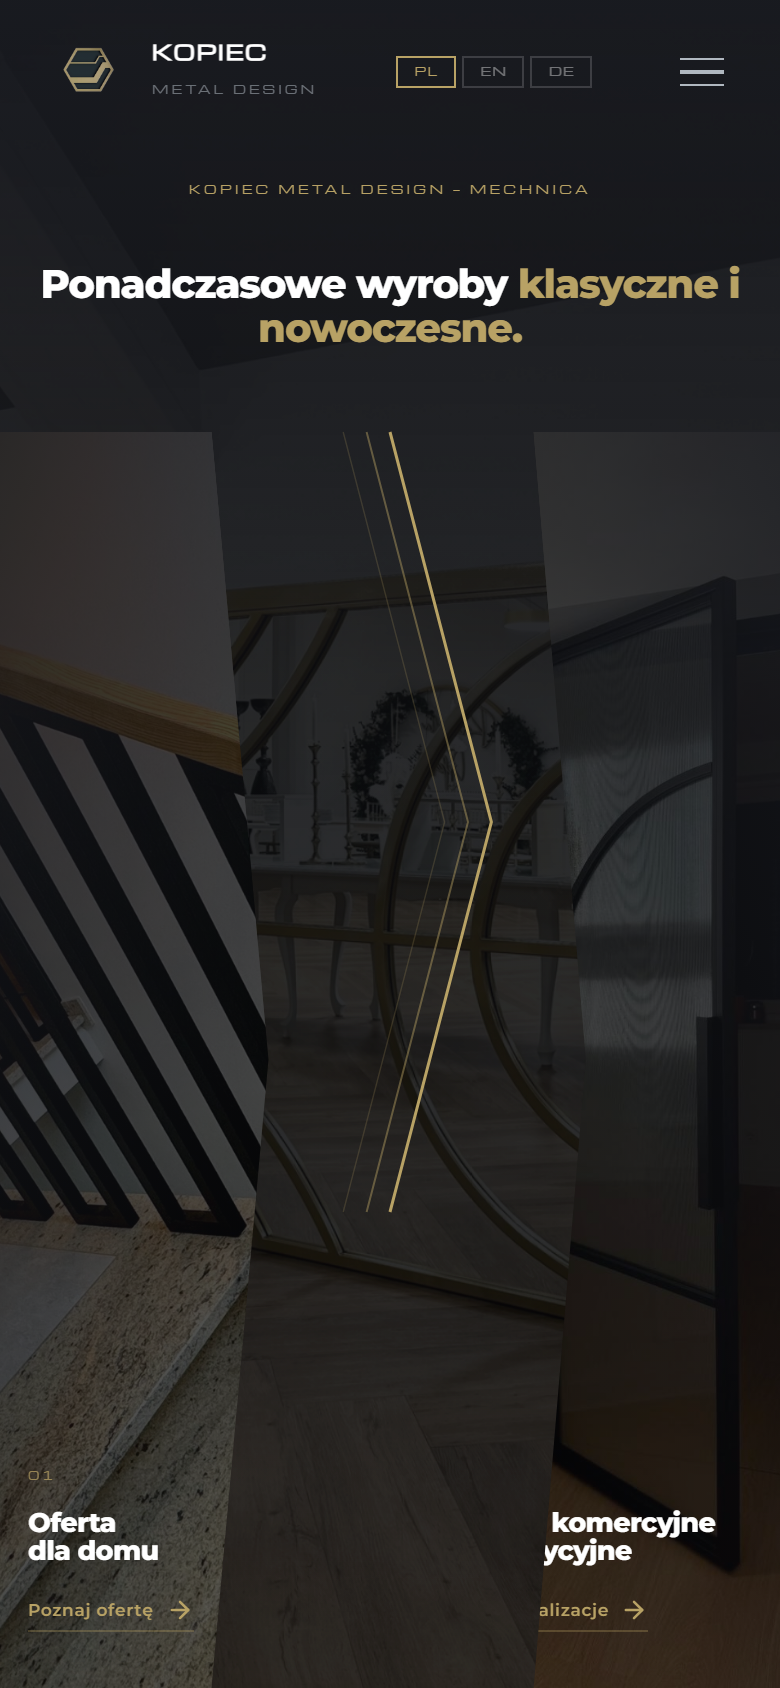
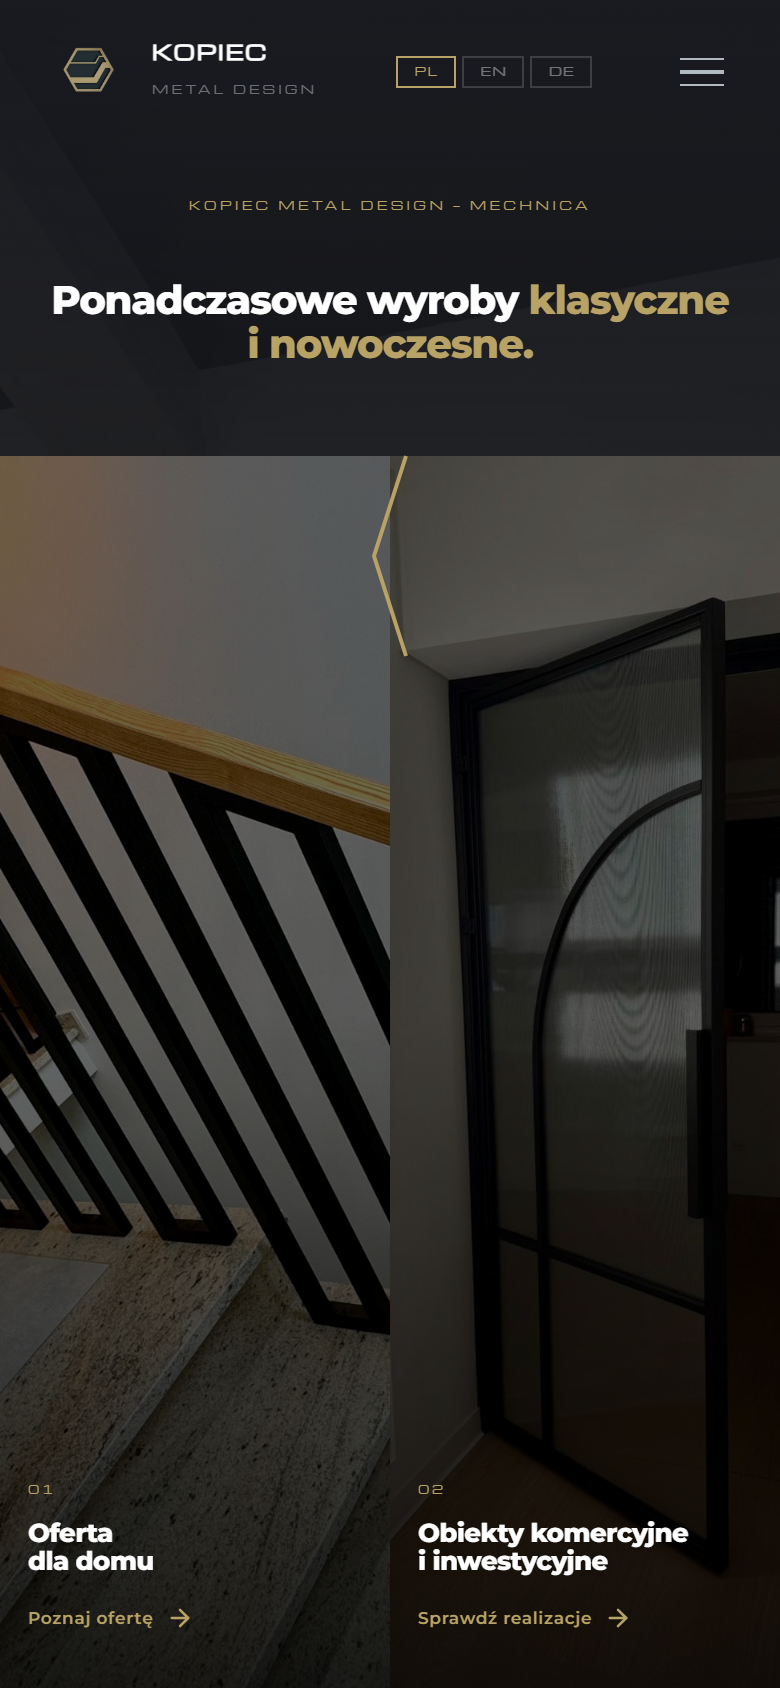
Hero: two simple tiles with gold lightning bolt divider

diff --git a/index.html b/index.html
@@ -146,90 +146,66 @@
       pointer-events: none; user-select: none;
     }
 
-    /* SPLIT — fills the remaining height with two panels */
+    /* SPLIT — dwa kafelki obok siebie */
     .hero-split {
       flex: 1; min-height: 0;
       display: flex;
       position: relative; z-index: 2;
     }
 
-    /* Gold chevron SVG — 3 parallel lines like the logo */
+    /* Złota błyskawica między kafelkami */
     .hero-chevron {
-      position: absolute; inset: 0; z-index: 20;
-      pointer-events: none; overflow: visible;
+      position: absolute;
+      top: 0; bottom: 0;
+      left: calc(50% - 16px);
+      width: 32px;
+      z-index: 10; pointer-events: none;
+      overflow: visible;
     }
 
-    /* PANELS */
+    /* KAFELKI — proste, bez clip-path */
     .hero-panel {
-      position: relative; overflow: hidden;
+      flex: 1; position: relative; overflow: hidden;
       display: flex; flex-direction: column; justify-content: flex-end;
-      padding: 44px 60px;
+      padding: 44px 52px;
       text-decoration: none;
-      transition: flex 0.58s cubic-bezier(0.4, 0, 0.2, 1);
     }
-    .hero-panel-left {
-      flex: 1;
-      clip-path: polygon(0 0, 50% 0, 63% 50%, 50% 100%, 0 100%);
-      z-index: 2;
-    }
-    .hero-panel-right {
-      flex: 1;
-      clip-path: polygon(37% 0, 100% 0, 100% 100%, 37% 100%, 50% 50%);
-      align-items: flex-end; padding-right: 68px;
-    }
-    .hero-panel:hover { flex: 1.14; }
+    .hero-panel-right { align-items: flex-end; }
 
-    /* Panel photo */
+    /* Zdjęcie tła kafelka */
     .hero-panel-img { position: absolute; inset: 0; z-index: 0; }
     .hero-panel-img img {
       width: 100%; height: 100%; object-fit: cover;
-      filter: brightness(0.38) saturate(1.15);
-      transition: transform 0.85s var(--ease), filter 0.5s;
+      filter: brightness(0.42) saturate(1.1);
+      transition: transform 0.8s var(--ease), filter 0.5s;
     }
     .hero-panel:hover .hero-panel-img img {
-      transform: scale(1.06); filter: brightness(0.54) saturate(1.25);
+      transform: scale(1.05); filter: brightness(0.55);
     }
-
-    /* Directional scrim */
     .hero-panel::before {
-      content: ''; position: absolute; inset: 0; z-index: 1; transition: opacity 0.5s;
-    }
-    .hero-panel-left::before {
-      background: linear-gradient(115deg, rgba(26,28,34,0.78) 0%, rgba(26,28,34,0.28) 55%, transparent 100%);
-    }
-    .hero-panel-right::before {
-      background: linear-gradient(245deg, rgba(26,28,34,0.78) 0%, rgba(26,28,34,0.28) 55%, transparent 100%);
+      content: ''; position: absolute; inset: 0; z-index: 1;
+      background: linear-gradient(to top, rgba(0,0,0,0.72) 0%, transparent 55%);
     }
 
-    /* Gold bottom accent on hover */
-    .hero-panel::after {
-      content: ''; position: absolute; bottom: 0; left: 6%; right: 6%; height: 1px; z-index: 3;
-      background: linear-gradient(to right, transparent, var(--gold) 20%, var(--gold) 80%, transparent);
-      transform: scaleX(0); transform-origin: center;
-      transition: transform 0.55s var(--ease);
-    }
-    .hero-panel:hover::after { transform: scaleX(1); }
-
-    /* Panel content */
+    /* Treść kafelka */
     .hero-panel-body { position: relative; z-index: 2; }
     .hero-panel-num {
       font-family: var(--ff-label); font-size: 0.58rem;
-      letter-spacing: 0.24em; color: var(--gold); opacity: 0.75;
-      margin-bottom: 12px; display: block;
+      letter-spacing: 0.24em; color: var(--gold);
+      margin-bottom: 10px; display: block;
     }
     .hero-panel h3 {
-      font-size: clamp(2.2rem, 2.5vw, 3.2rem);
+      font-size: clamp(2rem, 2.4vw, 3rem);
       font-weight: 800; color: var(--white);
-      line-height: 1.08; letter-spacing: -0.025em; margin-bottom: 20px;
+      line-height: 1.08; letter-spacing: -0.025em; margin-bottom: 18px;
     }
     .hero-panel-cta {
       display: inline-flex; align-items: center; gap: 10px;
       font-size: 1.18rem; font-weight: 600;
       color: var(--gold); letter-spacing: 0.04em;
-      border-bottom: 1px solid rgba(184,162,101,0.3); padding-bottom: 3px;
-      transition: gap 0.3s, border-color 0.3s;
+      transition: gap 0.28s;
     }
-    .hero-panel:hover .hero-panel-cta { gap: 16px; border-color: var(--gold); }
+    .hero-panel:hover .hero-panel-cta { gap: 16px; }
     .hero-eyebrow {
       font-family: var(--ff-label);
       font-size: 0.68rem; letter-spacing: 0.28em; text-transform: uppercase;
@@ -775,23 +751,10 @@
       .hero-eyebrow::before { display: none; }
       .hero-h1 { font-size: 2.4rem; line-height: 1.12; }
       .hero-h1 br { display: none; }
-      /* Panels — stay side-by-side on mobile */
-      .hero-split { flex-direction: row; }
-      .hero-panel { padding: 16px 14px 28px; transition: none; }
-      .hero-panel-left {
-        flex: 1.05;
-        clip-path: polygon(0 0, 52% 0, 66% 50%, 52% 100%, 0 100%);
-        align-items: flex-start;
-      }
-      .hero-panel-right {
-        flex: 0.95;
-        clip-path: polygon(34% 0, 100% 0, 100% 100%, 34% 100%, 48% 50%);
-        align-items: flex-start; padding-right: 14px;
-      }
-      .hero-panel:hover { flex: 1.05; }
+      .hero-panel { padding: 16px 14px 28px; }
+      .hero-panel-right { align-items: flex-start; padding-right: 14px; }
       .hero-panel h3 { font-size: 1.5rem; margin-bottom: 10px; }
       .hero-panel-cta { font-size: 0.95rem; }
-      .hero-panel::after { display: none; }
 
       /* === Split === */
       .split { grid-template-columns: 1fr; }
@@ -871,9 +834,8 @@
 
     @media (max-width: 480px) {
       /* === Hero === */
-      .hero-top { padding: 90px 20px 12px; }
       .hero-h1 { font-size: 2rem; }
-      .hero-panel h3 { font-size: 1.35rem; }
+      .hero-panel h3 { font-size: 1.3rem; }
       .hero-panel-cta { font-size: 0.85rem; gap: 6px; }
 
       /* === Offer === */
@@ -1077,11 +1039,9 @@
   <!-- Split panels -->
   <div class="hero-split">
 
-    <!-- Gold chevron divider — 3 parallel lines like the logo -->
-    <svg class="hero-chevron" viewBox="0 0 100 100" preserveAspectRatio="none" xmlns="http://www.w3.org/2000/svg">
-      <polyline points="50,0 63,50 50,100" fill="none" stroke="#B8A265" stroke-width="1.5" vector-effect="non-scaling-stroke"/>
-      <polyline points="47,0 60,50 47,100" fill="none" stroke="#B8A265" stroke-width="1"   vector-effect="non-scaling-stroke" opacity="0.45"/>
-      <polyline points="44,0 57,50 44,100" fill="none" stroke="#B8A265" stroke-width="0.7" vector-effect="non-scaling-stroke" opacity="0.2"/>
+    <!-- Złota błyskawica -->
+    <svg class="hero-chevron" viewBox="0 0 32 100" preserveAspectRatio="none" xmlns="http://www.w3.org/2000/svg">
+      <polyline points="24,0 8,50 24,100" fill="none" stroke="#B8A265" stroke-width="2" vector-effect="non-scaling-stroke"/>
     </svg>
 
     <!-- 1 — Oferta dla domu -->
